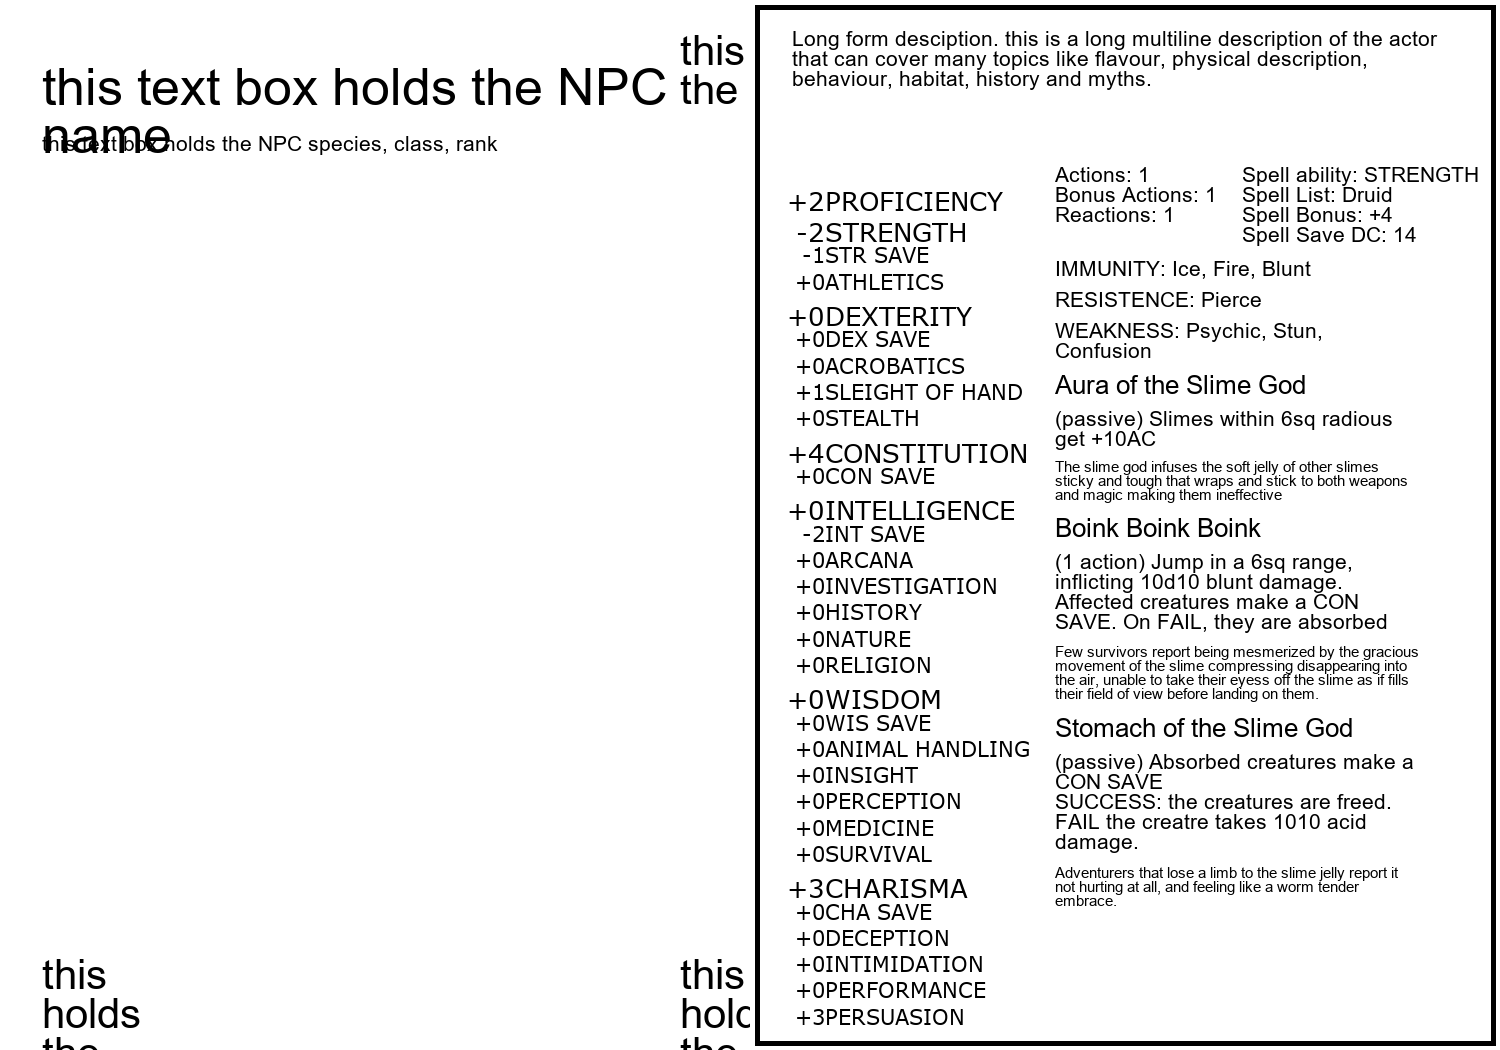
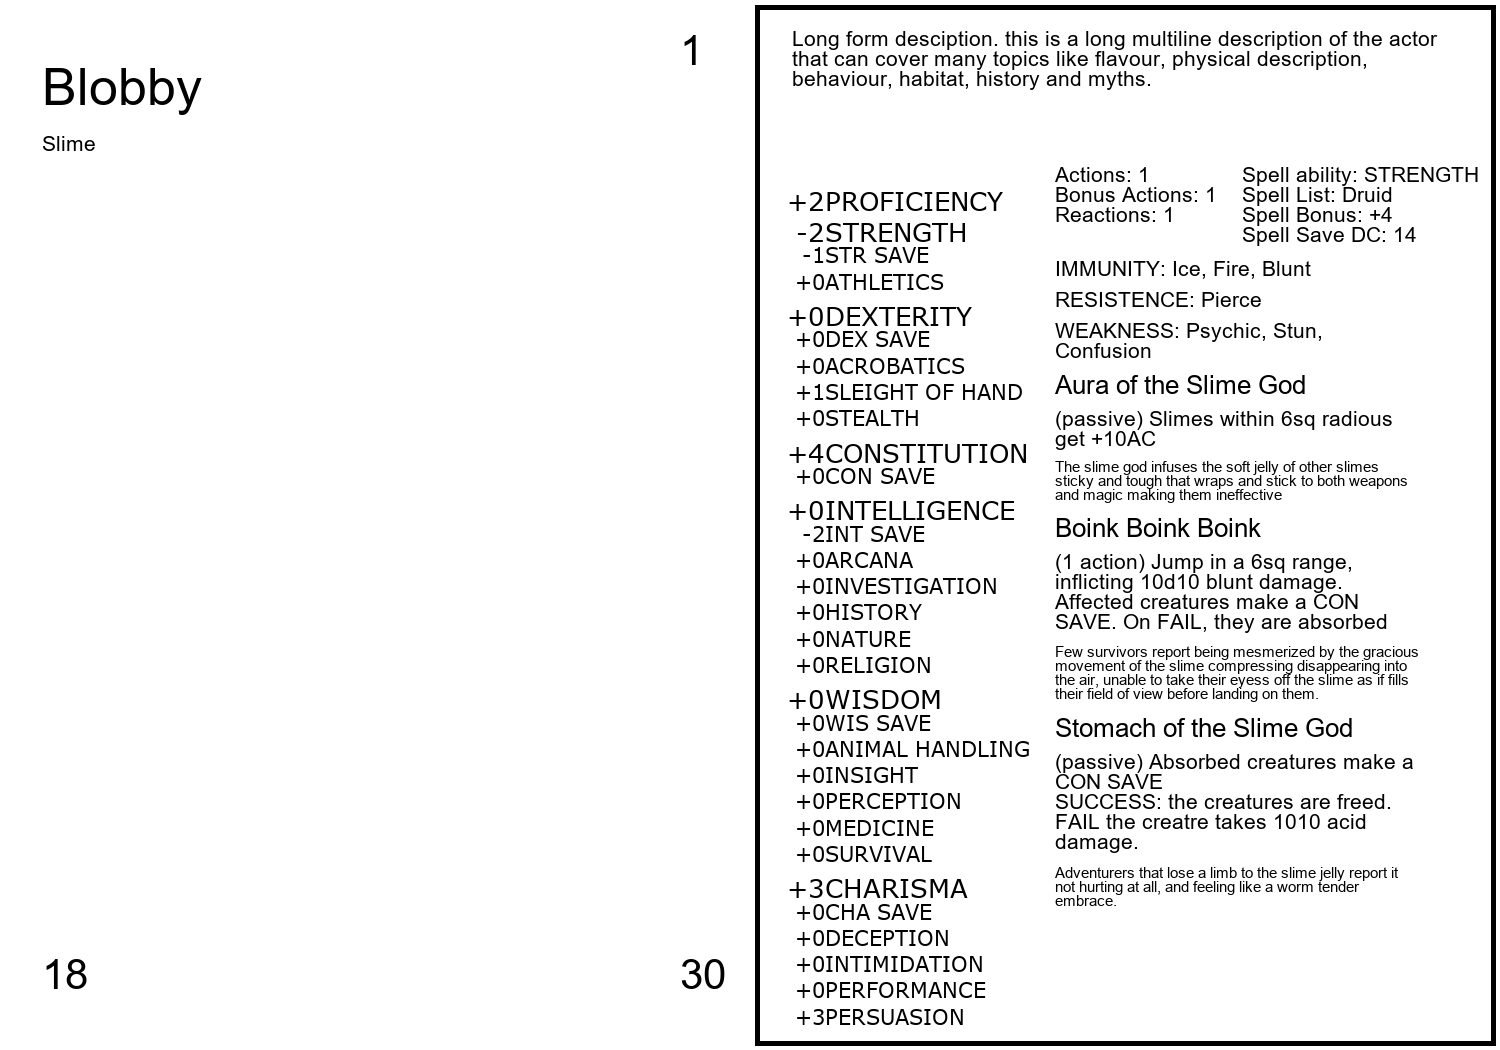
I can successfully load the front layout into the front image with all values! TODO: add speed and initiative to the attributes

Changed region(s): [[0.0307, 0.0305, 0.4907, 0.1524], [0.0307, 0.9143, 0.092, 1.0], [0.46, 0.9143, 0.4907, 1.0]]

diff --git a/src/lib/cl_generator.py b/src/lib/cl_generator.py
@@ -377,6 +377,37 @@ class Cl_npc_character_sheet_generator:
 
 
         return False #OK
+    
+    def load_values_front_from_npc_dict( self, i_ld_layout : Dict, i_d_npc : Dict ) -> bool:
+        """
+        given a npc dictionary, fill the values from the layout file
+        """
+
+        #copy the dictionary key from the NPC over to the layout value field
+        ls_npc_key = i_d_npc.keys()
+
+        try:
+            ld_text_boxes : List[Dict] = i_ld_layout["FRONT_TEXT_BOXES"]
+        except KeyError:
+            logging.error(f"ERR: field {"FRONT_TEXT_BOXES"} doesn't exist, json is wrong")
+            return True #ERROR
+
+        #scan the layout text fields
+        for d_attribute in ld_text_boxes:
+            #fetch the name of the attribute
+            s_attribute = d_attribute["s_name"] 
+            #check that the name of the attribute is amongst the NPC stats
+            if s_attribute in ls_npc_key:
+                #then copy over the value
+                d_attribute["s_text"] = i_d_npc[s_attribute]
+                logging.debug(f"NPC value {s_attribute} assigned to layout value {d_attribute}")
+            else:
+                logging.error(f"ERR: unable to find attributr {s_attribute} in layout keys {ls_npc_key}")
+                return True #FAIL
+            
+        logging.debug(f"FRONT: Loaded {len(ld_text_boxes)} text boxes")
+
+        return False #OK
 
     def load_values_back_from_npc_dict( self, i_ld_layout : Dict, i_d_npc : Dict ) -> bool:
         """
@@ -522,29 +553,39 @@ class Cl_npc_character_sheet_generator:
         #   DRAW: FRONT
         #----------------------------------------------------------------------
 
-        #Draw layout front to image
+        x_fail = self.load_values_front_from_npc_dict( st_layout , cl_npc.g_d_npc )
+        if x_fail:
+            logging.error("failed to load values from NPC into FRONT layout.")
+            return True #FAIL
 
-        cl_image = self.draw_layout_front_to_image(
+
+        #Draw layout front to image
+        x_fail = self.draw_layout_front_to_image(
             st_layout,
             self.g_cl_image_card_front
         )
+        if x_fail:
+            logging.error("ERR: failed to draw back layout to FRONT image")
+            return True #FAIL
 
 
         #----------------------------------------------------------------------
         #   DRAW: BACK
         #----------------------------------------------------------------------
 
-        #assign the stats
-        logging.info("Combining attributes values from NPC into Layout...")
         x_fail = self.load_values_back_from_npc_dict( st_layout , cl_npc.g_d_npc )
         if x_fail:
-            logging.error("failed to load values from NPC into layout.")
+            logging.error("failed to load values from NPC into back layout.")
+            return True #FAIL
 
         # Draw the layout to an image
-        cl_image = self.draw_layout_back_to_image(
+        x_fail = self.draw_layout_back_to_image(
             st_layout,
             self.g_cl_image_card_back
         )
+        if x_fail:
+            logging.error("ERR: failed to draw back layout to back image")
+            return True #FAIL
 
         #----------------------------------------------------------------------
         #   DRAW: COMBINE FRONT AND BACK
